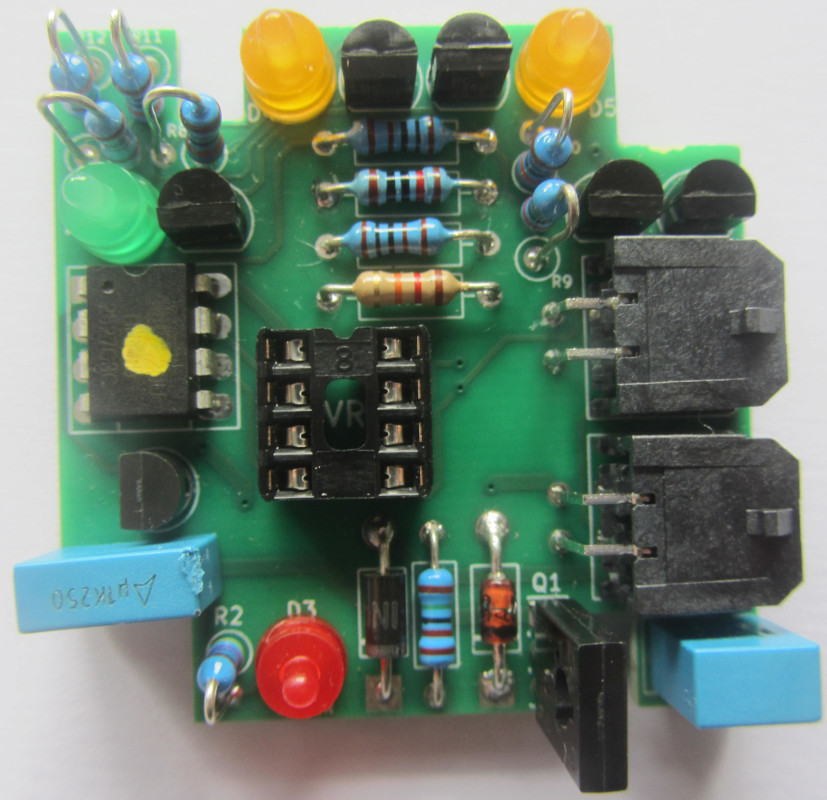
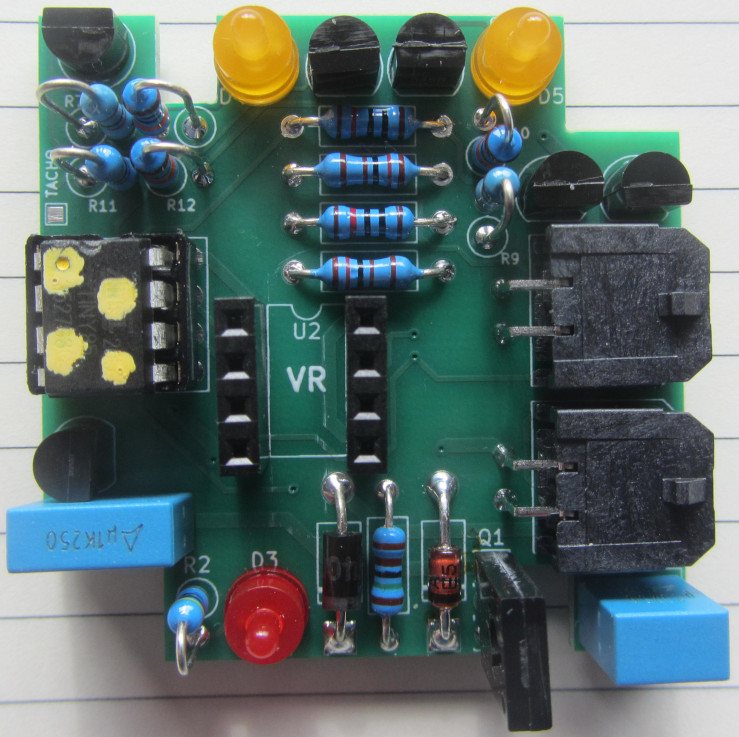
- PCB v1.1 preparation.

diff --git a/README.md b/README.md
@@ -1,7 +1,7 @@
 # ToothEater-HW-THT
 
-This repository contains the hardware design of the Honda Blackbird v1.0 Tooth Eater Module - (Through hole version). This through hole version is intended for the DIY'er for easier construction. This PCB is a simple 2 layer design, measuring 44mm x 44mm for insertion into the Hammond 1551R case.<br /><br />
-This hardware is designed to work with the latest firmware version (v1.1) contained in the firmware respository. I.e. <i>'ToothEater_v1.1.hex'</i><br />
+This repository contains the hardware design of the Honda Blackbird v1.1 Tooth Eater Module - (Through hole version). This through hole version is intended for the DIY'er for easier construction. This PCB is a simple 2 layer design, measuring 44mm x 44mm for insertion into the Hammond 1551R case.<br /><br />
+This hardware is designed to work with the latest firmware version (v1.x) contained in the firmware respository. I.e. <i>'ToothEater_v1.2.hex'.</i><br />
 <br />
 Shown below are blank boards as received by PCBWay. This is a small unit slightly larger than a matchbox, shown in the 2" x 2" case.
 
@@ -33,7 +33,7 @@ Shown below are blank boards as received by PCBWay. This is a small unit slightl
 
 <br />
 
-A zoomed picture of the board is shown below. The full bill of materials can be found in the 'BOM' directory, however the table below will quickly identify most components.
+A zoomed picture of the board is shown below. The full bill of materials can be found in the 'BOM' directory, however the table below will quickly identify the components. This table reflects the BOM for PCB v1.1.
 
 <table border="3">
 <tr>
@@ -143,7 +143,7 @@ A zoomed picture of the board is shown below. The full bill of materials can be 
 </img>
 
 <br /><br />
-The board is shown below with the components assembled. It is up to you whether you install a 8-pin DIP socket for the microcontroller. I pre-programmed mine and just soldered it in. Also, the 8-pin DIP socket for the VR module is also not ideal, but will work just fine. It is better to use a two 1x4 pin female headers of appropriate height.
+The board is shown below with the components assembled.
 <img 
     style="display: block; 
            margin-left: auto;
@@ -155,12 +155,61 @@ The board is shown below with the components assembled. It is up to you whether 
 <br />
 
 
+
+<table border="1">
+
+The following illustrates different views of the v1.1 assembled board (without the VR mini-board installed).<br />
+
+<tr>
+<td align="center" valign="center">
+<img 
+    style="display: block; 
+           margin-left: auto;
+           margin-right: auto;
+           width: 100%;"
+    src="images/3dBoard_NoVr_1.jpg#center">
+</img>
+</td>
+<td>
+<img 
+    style="display: block; 
+           margin-left: auto;
+           margin-right: auto;
+           width: 100%;"
+    src="images/3dBoard_NoVr_2.jpg#center">
+</img>
+</td>
+</tr>
+
+<tr>
+<td align="center" valign="center">
+<img 
+    style="display: block; 
+           margin-left: auto;
+           margin-right: auto;
+           width: 100%;"
+    src="images/3dBoard_NoVr_3.jpg#center">
+</img>
+</td>
+<td>
+<img 
+    style="display: block; 
+           margin-left: auto;
+           margin-right: auto;
+           width: 100%;"
+    src="images/3dBoard_NoVr_4.jpg#center">
+</img>
+</td>
+</tr>
+
+</table>
+
+
 <table border="1">
 <tr>
 
 <br /><br />
-On the left: The assembled board, connectors installed as well as the VR plug-in module.<br />
-On the right: The case (Hammond 1551R).
+The board is shown below with two mini wiring harnesses connected to it, along with the speeduino compatible VR plug in mini board.
 
 <td align="center" valign="center">
 <img 
@@ -168,37 +217,42 @@ On the right: The case (Hammond 1551R).
            margin-left: auto;
            margin-right: auto;
            width: 100%;"
-    src="images/Board_1.jpg#center">
+    src="images/BoardWithWiresAndVR.jpg#center">
 </img>
 </td>
 
-<td>
-<img 
-    style="display: block; 
-           margin-left: auto;
-           margin-right: auto;
-           width: 100%;"
-    src="images/Case_Hammond_1551R.jpg#center">
-</img>
-</td>
+
 
 </tr>
 </table>
 
 
 <br /><br />
-Looking through the board, it can be seen that the pins on the VR mini-board don't bottom out. This doesn't appear ideal, but is fine in practice. With the VR board pressed down until it bottoms out, all the components on the tooth eater board are cleared of the VR board.
+Once the VR board is inserted into the tooth eater module, it may sit to tall such that it will not allow the lid to close on the case. This is due to the height of the two female 4x1 headers (8.5mm height) that is sits within. To remedy this, the plastic stand-offs may be pryed off with a screwdriver or similar. This will allow the VR module to sink lower into the tooth eater board once it is inserted.
 
 <img 
     style="display: block; 
            margin-left: auto;
            margin-right: auto;
            width: 100%;"
-    src="images/VR_PinHeight.jpg#center">
+    src="images/RemovingPlasticStandoff.jpg#center">
 </img>
 
+<br />
+Afterwards it will sit as follows. The overall height will now allow the package to fit within the case.
+
+<img 
+    style="display: block; 
+           margin-left: auto;
+           margin-right: auto;
+           width: 100%;"
+    src="images/TallFemaleHeader.jpg#center">
+</img>
+
+
 <br /><br />
-When assembled, the BD681 transistor sits slightly proud of the case top (~2mm). This can be fixed by slightly cutting into the lid in that area. 
+When assembled, the BD681 transistor sits slightly proud of the case top (~2mm). This can be fixed by bending it to the left as shown.
+
 <img 
     style="display: block; 
            margin-left: auto;
@@ -212,8 +266,9 @@ When assembled, the BD681 transistor sits slightly proud of the case top (~2mm).
            margin-left: auto;
            margin-right: auto;
            width: 100%;"
-    src="images/LidModification.jpg#center">
+    src="images/BendPowerTransistor.jpg#center">
 </img>
+
 
 <br /><br />
 The connectors require a section to be cut out of the case.
@@ -234,19 +289,13 @@ The connectors require a section to be cut out of the case.
 
 <br /><br />
 The board is fitted to the case and relative size is shown.
+
 <img 
     style="display: block; 
            margin-left: auto;
            margin-right: auto;
            width: 100%;"
-    src="images/BoardInCase-SideView.jpg#center">
-</img>
-<img 
-    style="display: block; 
-           margin-left: auto;
-           margin-right: auto;
-           width: 100%;"
-    src="images/BoardInCase-TopView.jpg#center">
+    src="images/CompletedCase.jpg#center">
 </img>
 <img 
     style="display: block; 
